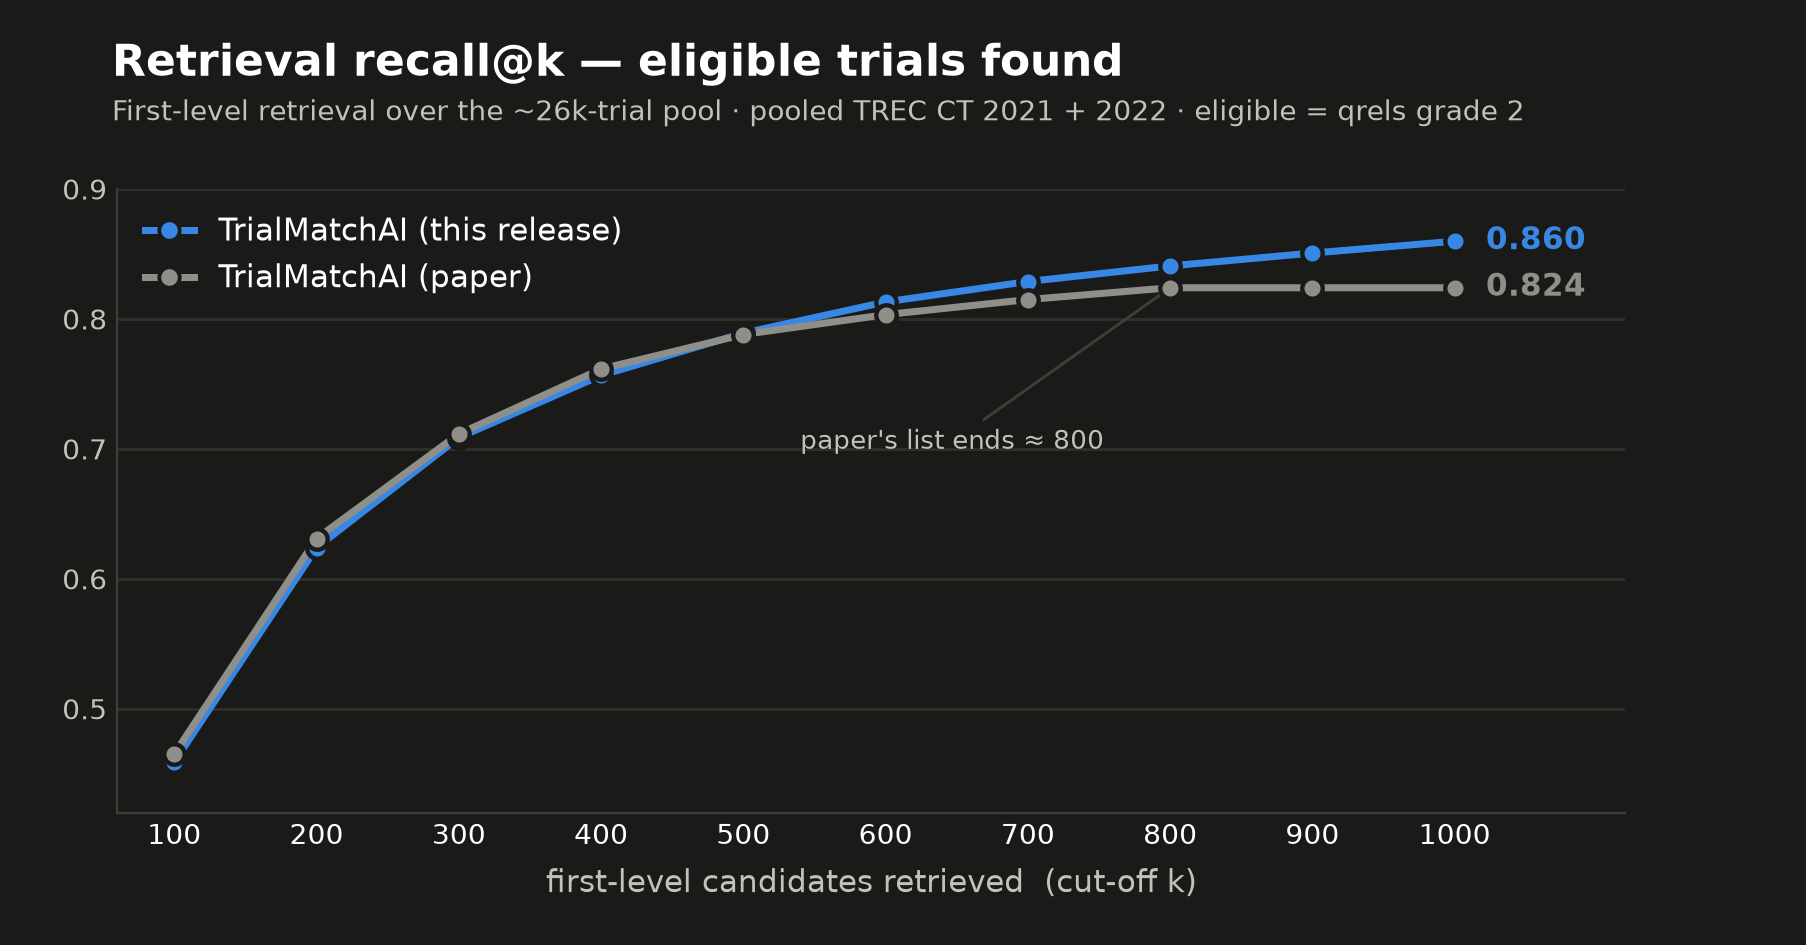
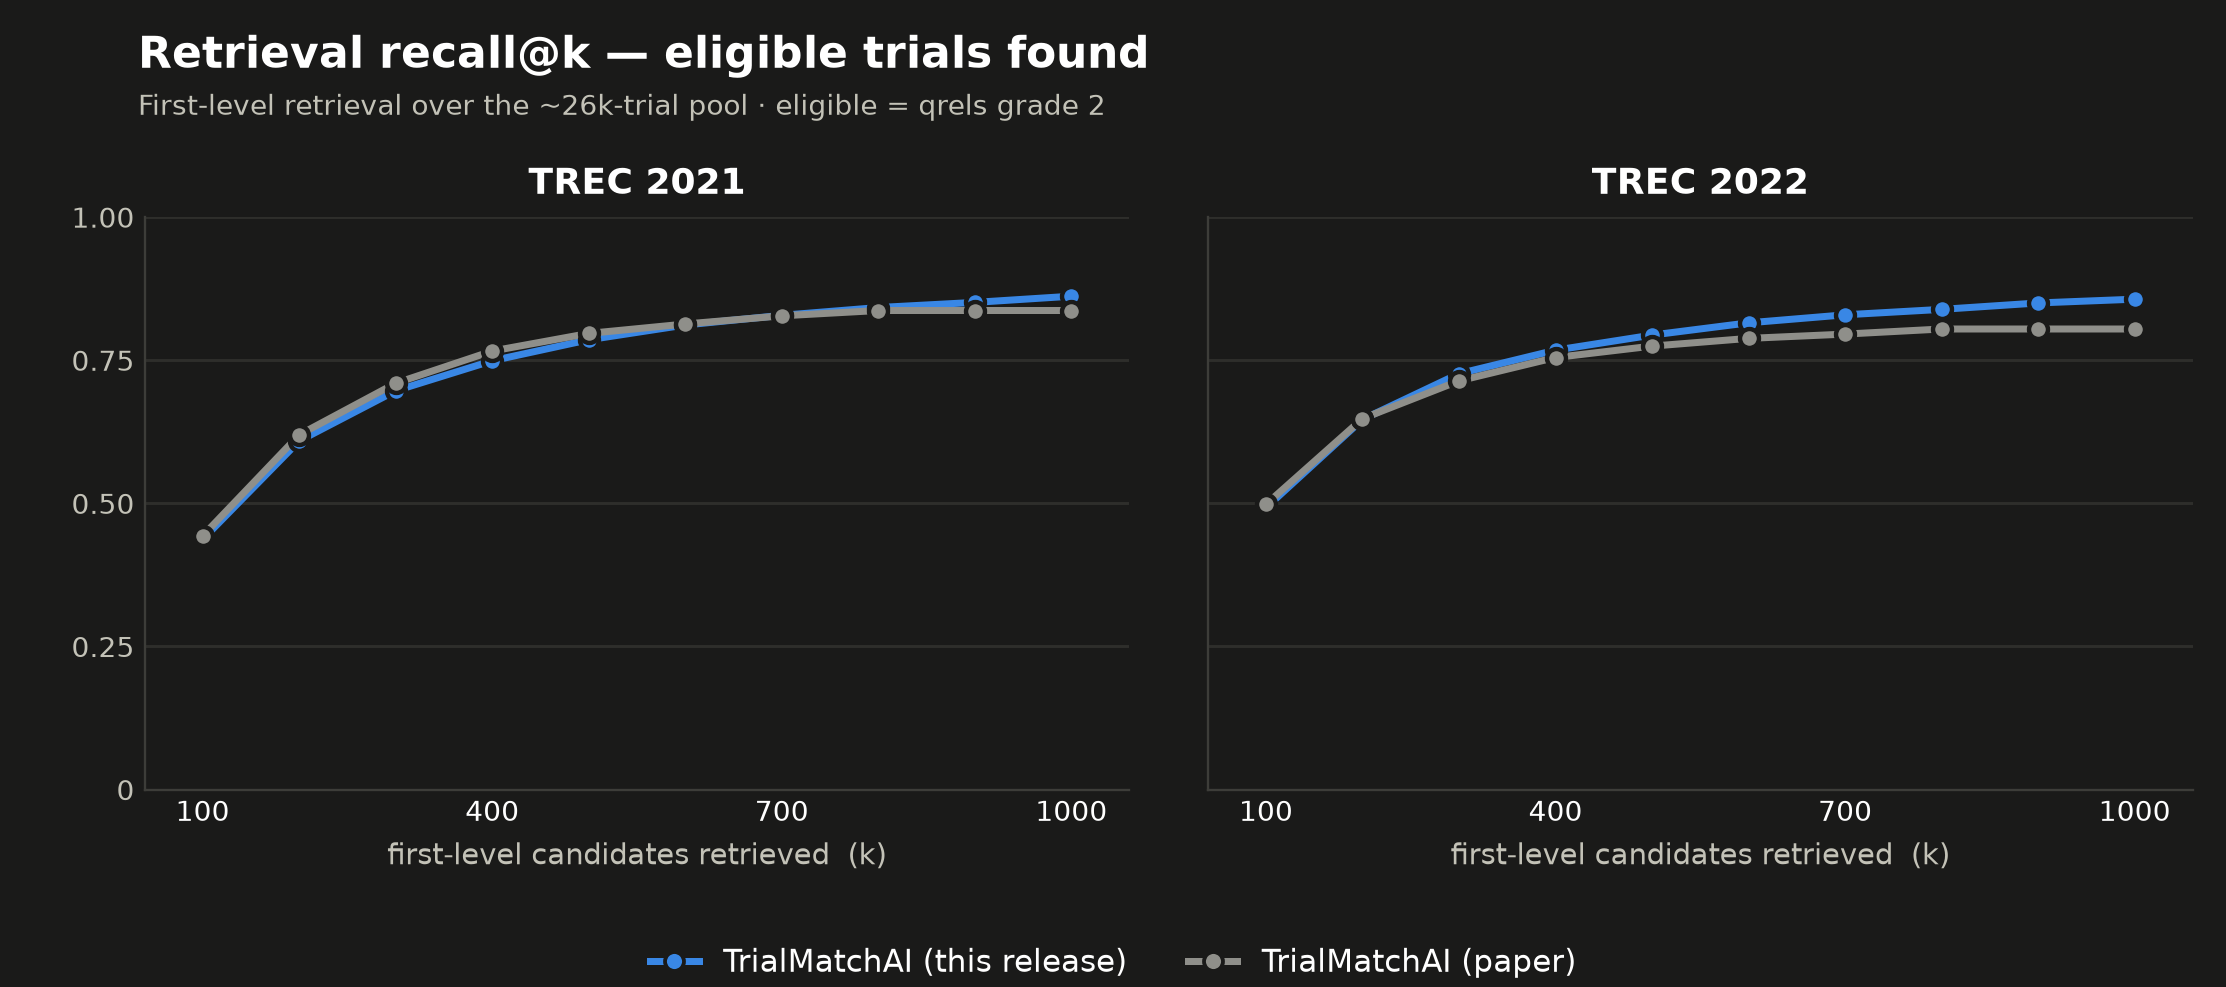
docs(readme): recall chart split per track (TREC 2021 | 2022)
Two panels in one figure (TREC 2021 and 2022), both systems each, eligible-only recall@k
(grade 2); y-axis 0-1 in 0.25 steps, no per-point value labels.

diff --git a/README.md b/README.md
@@ -58,18 +58,18 @@ the value reported in Jin et al. (2024), whose evaluation additionally includes 
 `trialmatchai trec --tracks "21 22"`.</sub>
 
 **Retrieval recall** — the share of **eligible** trials (qrels grade 2) the first-level search
-surfaces among its top-*k* candidates — tracks the paper early and pulls ahead past ~500,
-reaching 0.86 at k = 1000:
+surfaces among its top-*k* candidates — is on par with the paper early and pulls ahead at
+depth, shown per track:
 
 <picture>
   <source media="(prefers-color-scheme: dark)" srcset="docs/assets/recall_dark.png">
-  <img alt="First-level retrieval recall@k (100–1000) of eligible trials on TREC CT 2021+2022 (pooled): TrialMatchAI this release vs the paper" src="docs/assets/recall_light.png" width="760">
+  <img alt="First-level retrieval recall@k (100–1000) of eligible trials, per track (TREC CT 2021 and 2022): TrialMatchAI this release vs the paper" src="docs/assets/recall_light.png" width="880">
 </picture>
 
 <sub>TREC-standard recall@k over **eligible** trials (qrels grade 2) for each system's first-level
-retrieval, pooled over TREC CT 2021 + 2022 (~26k-trial candidate pool). The paper's stored
-first-level lists end at ~800 candidates, so its recall plateaus beyond that. TrialGPT does
-not report comparable per-cut-off recall, so it is omitted.</sub>
+retrieval, shown per track (TREC CT 2021 and 2022; ~26k-trial candidate pool). The paper's
+stored first-level lists end at ~800 candidates, so its recall plateaus beyond that. TrialGPT
+does not report comparable per-cut-off recall, so it is omitted.</sub>
 
 ## Requirements
 